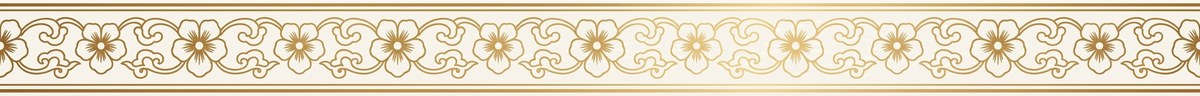
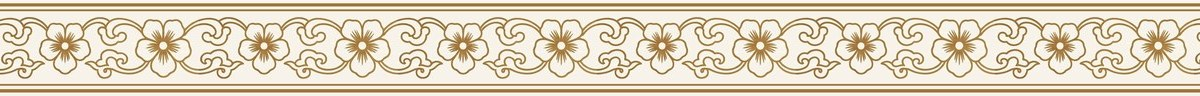
VIPHola.com site (11-15)

diff --git a/pay/index.html b/pay/index.html
@@ -15,7 +15,7 @@
 </head>
 <!-- 견적 메일의 결제 링크로만 열리는 화면 (메뉴에 없음) — 견적·카드 결제 → 결제 완료(예약 확보 중) → 확정 뒤엔 손님 여정 화면 (11-15) -->
 <body class="pay-page" data-page="pay">
-<img class="pay-band" src="../img/mail-band-top.jpg" alt="" aria-hidden="true">
+<img class="pay-band" src="../img/mail-band-top.jpg?v=1116t" alt="" aria-hidden="true">
 <nav class="topbar" aria-label="Site">
   <a class="brand" href="../">
     <span class="art art-mark" data-ph="무궁화"><img src="../img/mugunghwa-mark.png" alt="" onerror="this.parentNode.classList.add('missing')"></span>
@@ -31,7 +31,7 @@
     <p><a href="mailto:concierge@viphola.com">concierge@viphola.com</a></p>
   </div><div class="bizinfo"></div></div>
 </footer>
-<img class="pay-band" src="../img/mail-band-bottom.jpg" alt="" aria-hidden="true">
+<img class="pay-band" src="../img/mail-band-bottom.jpg?v=1116t" alt="" aria-hidden="true">
 <script src="../hub.js?v=1115e"></script>
 <script src="../bizinfo.js?v=1116m"></script>
 <script src="pay.js?v=1116s"></script>
